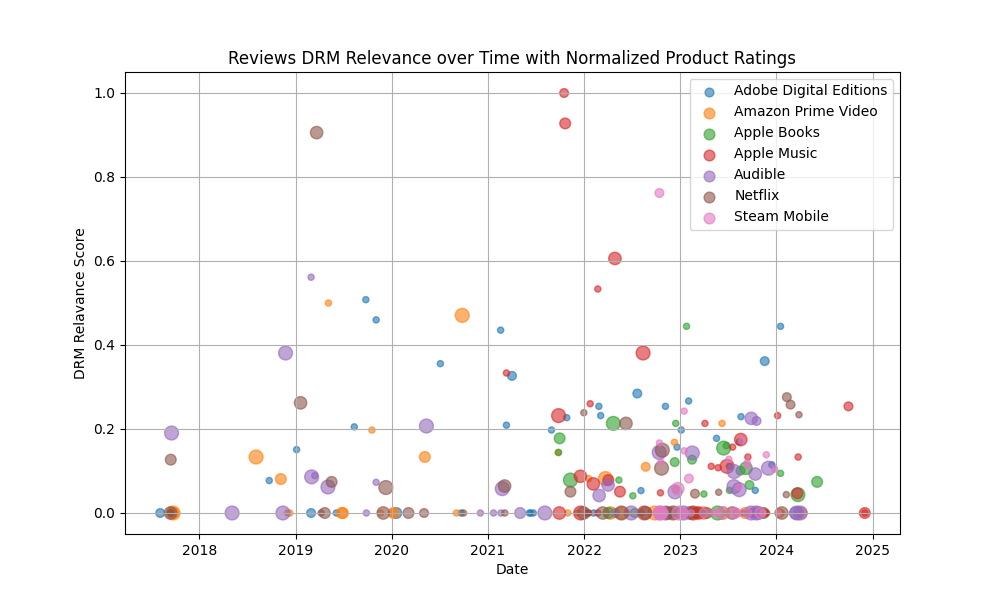
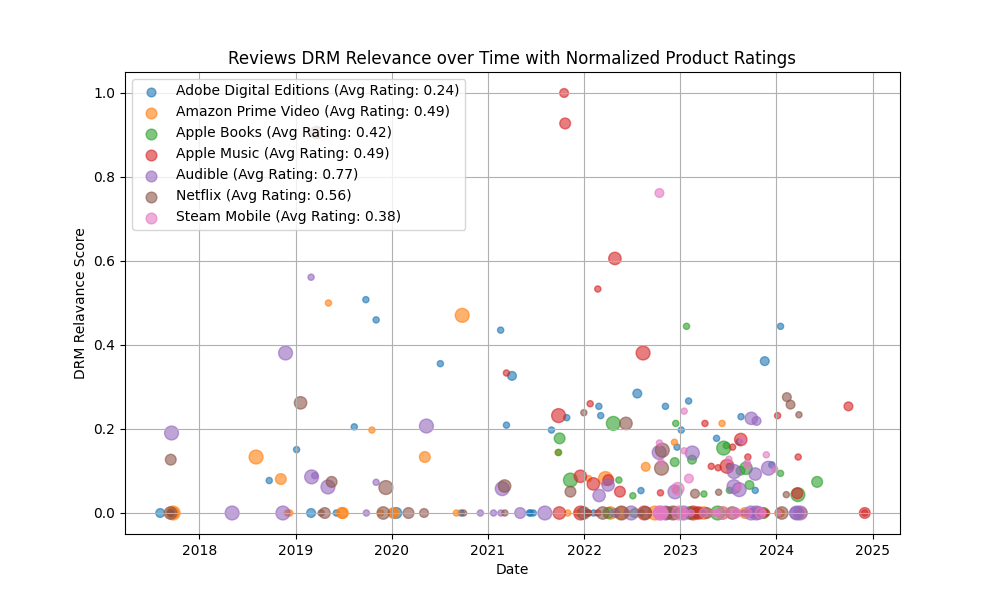
Add boxplot distribution for topic relavance in rating bands

Changed region(s): [[0.124, 0.12, 0.465, 0.39], [0.682, 0.12, 0.899, 0.39], [0.868, 0.27, 0.899, 0.3]]

diff --git a/graphing/review_plotter.py b/graphing/review_plotter.py
@@ -42,7 +42,8 @@ def plot_reviews_with_drm_relevance(filename: str):
         total_points += len(group)
         valid_points = group.dropna(subset=['date', 'drm_relevance'])
         plotted_points += len(valid_points)
-        plt.scatter(valid_points['date'], valid_points['drm_relevance'], s=valid_points['normalized_rating'], label=app, alpha=0.6)
+        avg_rating = group['rating'].mean()
+        plt.scatter(valid_points['date'], valid_points['drm_relevance'], s=valid_points['normalized_rating'], label=f"{app} (Avg Rating: {avg_rating:.2f})", alpha=0.6)
         invalid_points = group[group.isna().any(axis=1)]
         if not invalid_points.empty:
             print(f"Unplotted points for {app}:")
@@ -75,7 +76,8 @@ def plot_ratings_over_time(filename: str):
         total_points += len(group)
         valid_points = group.dropna(subset=['date', 'rating'])
         plotted_points += len(valid_points)
-        plt.scatter(valid_points['date'], valid_points['rating'], label=app, alpha=0.6)
+        avg_rating = group['rating'].mean()
+        plt.scatter(valid_points['date'], valid_points['rating'], label=f"{app} (Avg Rating: {avg_rating:.2f})", alpha=0.6)
         invalid_points = group[group.isna().any(axis=1)]
         if not invalid_points.empty:
             print(f"Unplotted points for {app}:")
@@ -122,7 +124,37 @@ def plot_drm_relevance_vs_rating(filename: str):
     plt.grid(True)
     plt.savefig(output_dir + '/drm_relevance_vs_rating.png')
 
+def plot_drm_relevance_by_rating_band(filename: str):
+    reviews = load_reviews_with_drm_relevance(filename)
+    reviews_data = []
+    for app, app_reviews in reviews.items():
+        for review in app_reviews:
+            review['app'] = app
+            reviews_data.append(review)
+    reviews_df = pd.DataFrame(reviews_data)
+    
+    reviews_df['drm_relevance'] = pd.to_numeric(reviews_df['drm_relevance'], errors='coerce')
+    reviews_df['rating'] = pd.to_numeric(reviews_df['rating'], errors='coerce')
+    reviews_df.dropna(subset=['drm_relevance', 'rating'], inplace=True)
+
+    # Adjust the bins for normalized ratings
+    rating_labels = ['Low (0-0.25)', 'Medium (0.25-0.5)', 'High (0.5-0.75)', 'Very High (0.75-1)']
+    reviews_df['rating_band'] = pd.cut(reviews_df['rating'], bins=[0, 0.25, 0.5, 0.75, 1], labels=rating_labels, include_lowest=True)
+
+    plt.figure(figsize=(12, 6))
+    # Boxplot of DRM Relevance for each Rating Band
+    reviews_df.boxplot(column='drm_relevance', by='rating_band', vert=False, grid=True, patch_artist=True)
+
+    plt.title('DRM Relevance Distribution by Rating Band')
+    plt.suptitle('')
+    plt.xlabel('DRM Relevance Score')
+    plt.ylabel('Rating Band')
+    plt.grid(True, linestyle='--', linewidth=0.5, alpha=0.7)
+    plt.savefig(output_dir + '/drm_relevance_distribution_by_rating_band.png')
+
+
 def generate_plots(filename):
     plot_reviews_with_drm_relevance(filename)
     plot_ratings_over_time(filename)
     plot_drm_relevance_vs_rating(filename)
+    plot_drm_relevance_by_rating_band(filename)

diff --git a/README.md b/README.md
@@ -51,6 +51,9 @@ Visualizations provide insight into DRM discussions within user reviews and thei
 ### DRM Relevance vs. Product Ratings
 ![](/data/graphs/drm_relevance_vs_rating.png)
 
+### DRM Relevance vs. Product Ratings (Boxplot distribution)
+![](/data/graphs/drm_relevance_distribution_by_rating_band.png)
+
 ### Product Ratings Over Time
 ![](/data/graphs/ratings_over_time.png)
 
